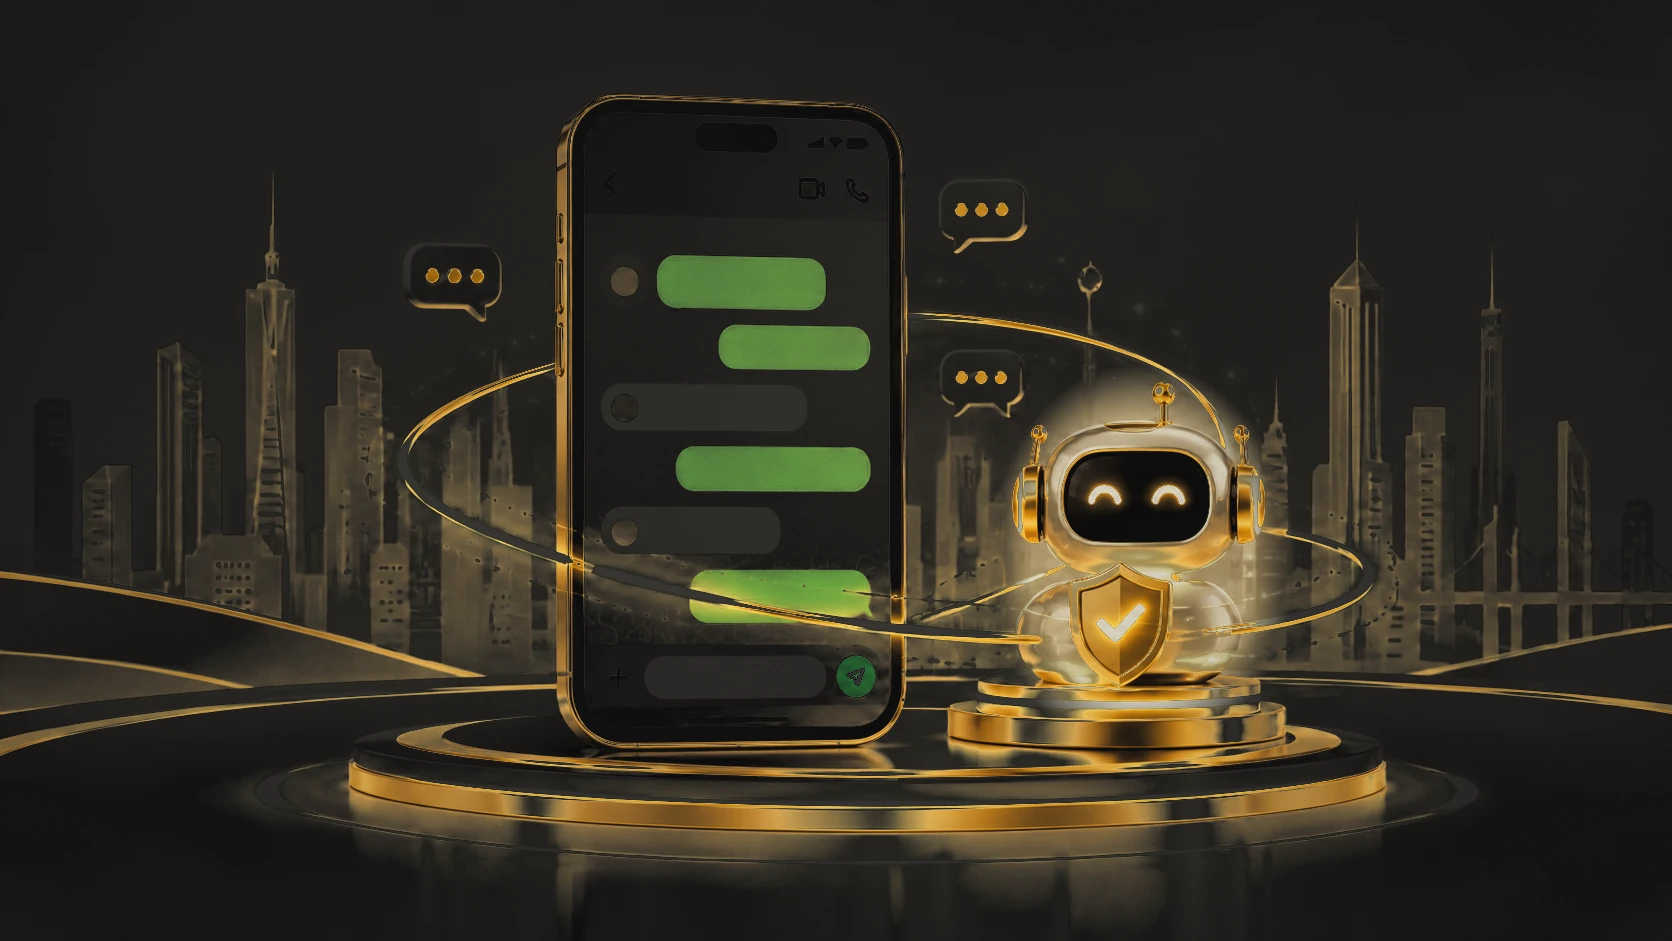
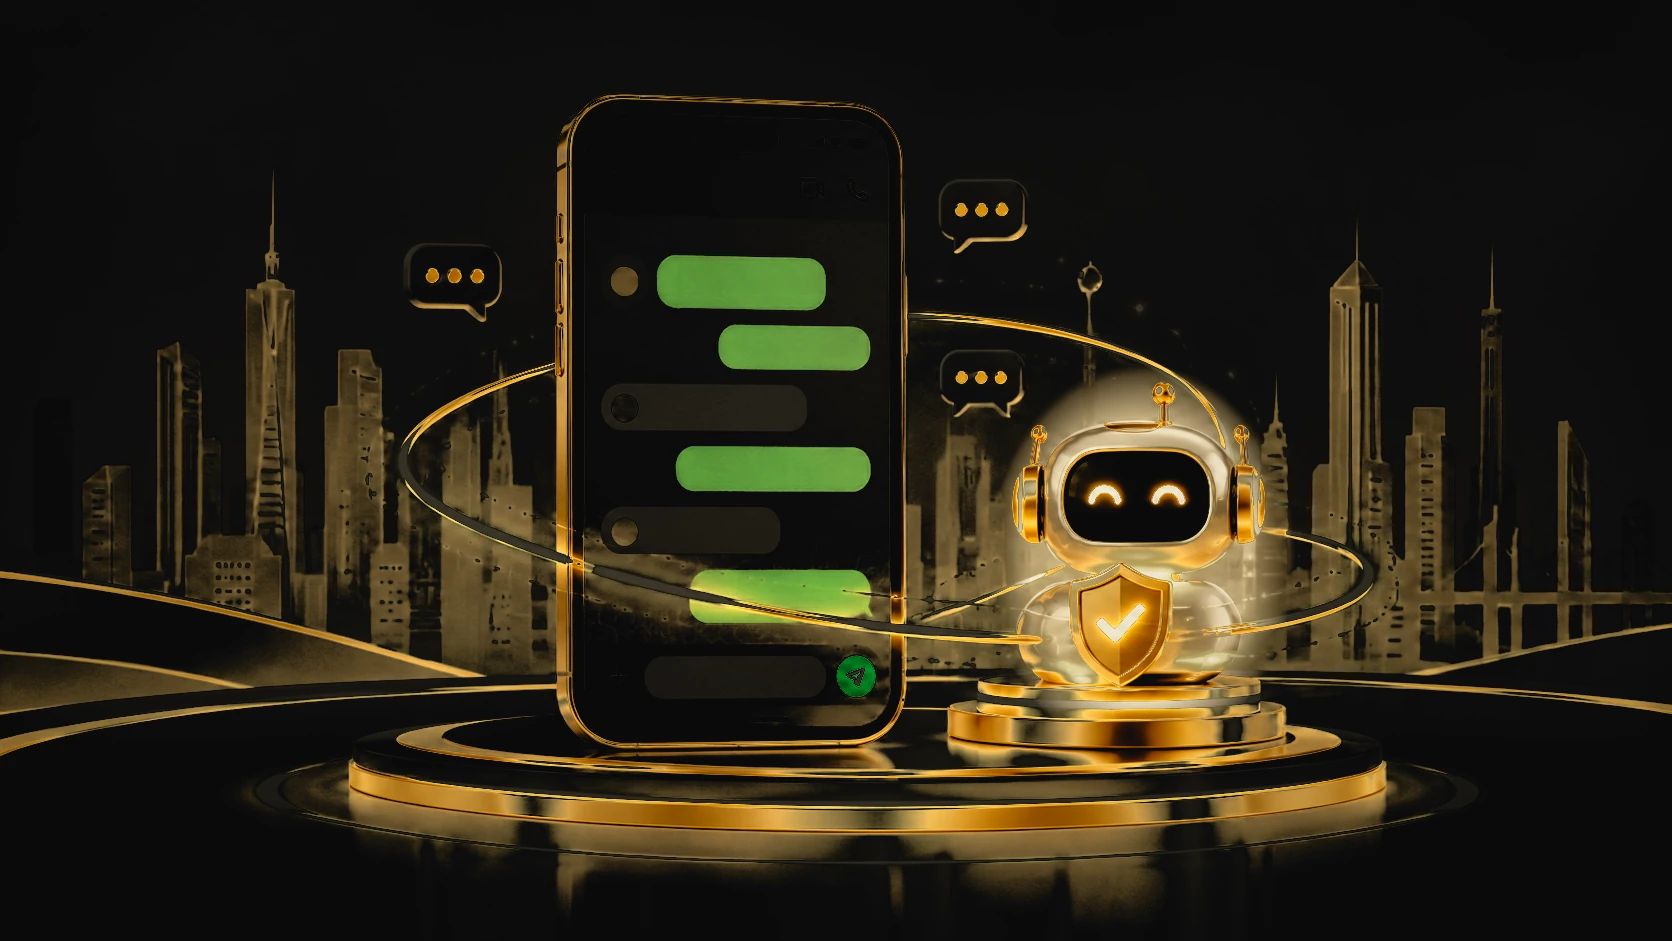
v2.11.0 try again, clean hero

diff --git a/public/app.js b/public/app.js
@@ -3,7 +3,7 @@
   var $ = function (id) { return document.getElementById(id); };
   var MAX_SECONDS = 240;
   var job = null, poll = null, method = 'code', dmPolls = 0, lastCode = '';
-  var submitting = false, checking = false, reqId = 0;
+  var submitting = false, checking = false, reqId = 0, lastNumber = '';
   var snd = function (n) { if (window.tfxSound) window.tfxSound.play(n); };
   var reduced = window.matchMedia && window.matchMedia('(prefers-reduced-motion: reduce)').matches;
   // lets :active (the press effect) work on iPhone Safari
@@ -327,7 +327,7 @@
   function reset() {
     stop(); idStop(); clearJob(); restoring = false; slowPoll = false; islandReset();
     $('step-done').classList.remove('used'); $('usedmsg').hidden = true; $('idtimer').classList.remove('used'); job = null; lastCode = ''; dmPolls = 0; submitting = false; reqId++; checking = false;
-    renderCode('');
+    renderCode(''); $('code').hidden = false; $('codemsg').hidden = true; $('qrmsg').hidden = true; $('retry').hidden = true; $('retry').disabled = false; $('status').parentNode.classList.remove('done');
     $('qrimg').hidden = true; $('qrimg').removeAttribute('src'); $('qrskel').hidden = false;
     $('copycode').disabled = true;
     $('prog').style.width = '100%'; $('timer').hidden = true;
@@ -356,7 +356,7 @@
     setText($('err1'), '');
     var number = '';
     if (method === 'code') { number = validNumber(); if (!number) { flash($('go'), 'shake', 500); return; } }
-    submitting = true; var mine = ++reqId, sent = method;
+    submitting = true; var mine = ++reqId, sent = method; lastNumber = number;
     busy(true);
     snd('press'); islLock = false; islandSet('working', 'Connecting…');
     swapText($('go-text'), sent === 'code' ? 'Generating…' : 'Preparing…');
@@ -377,6 +377,46 @@
       .catch(function () { if (mine === reqId) failSubmit('Could not reach the site. Check your internet connection and try again.'); });
   });
 
+  // an attempt ended (expired, refused, stopped): no empty box - say what happened and offer "Try again"
+  function ended(msg) {
+    var qr = method === 'qr';
+    renderCode(''); lastCode = ''; $('copycode').disabled = true; $('qrimg').hidden = true; $('qrskel').hidden = true;
+    $('code').hidden = true;
+    setText($('codemsg'), 'This code has expired or stopped. Press Try again to get a new one.');
+    setText($('qrmsg'), 'This QR code has expired or stopped. Press Try again to get a new one.');
+    $('codemsg').hidden = qr; $('qrmsg').hidden = !qr;
+    $('timer').hidden = true; $('prog').style.width = '0%';
+    $('status').textContent = 'This attempt ended.'; $('status').parentNode.classList.add('done');
+    $('retry-text').textContent = qr ? 'Try again – new QR code' : 'Try again – new code';
+    $('retry').classList.add('main'); $('retry').hidden = false; $('retry').disabled = false;
+    setText($('err2'), msg || '');
+    islandSet('bad', 'Linking failed');
+  }
+  // "Try again": drop the old attempt and ask for a new code / QR right here (same number, same screen)
+  function retry() {
+    if (submitting) return;
+    var old = job; stop(); clearJob(); job = null; lastCode = ''; checking = false; submitting = true; var mine = ++reqId, sent = method;
+    if (old) fetch('/api/cancel/' + old, { method: 'POST' }).catch(function () {});
+    snd('press'); islLock = false; islandSet('working', 'Connecting…');
+    $('status').parentNode.classList.remove('done'); $('retry').disabled = true; $('retry-text').textContent = 'Getting a new one…';
+    setText($('err2'), ''); $('codemsg').hidden = true; $('qrmsg').hidden = true; $('code').hidden = false; $('retry').classList.remove('main');
+    renderCode(''); $('copycode').disabled = true; $('qrimg').hidden = true; $('qrimg').removeAttribute('src'); $('qrskel').hidden = false;
+    $('prog').style.width = '100%'; $('timer').hidden = true;
+    $('status').textContent = sent === 'code' ? 'Requesting a new pairing code…' : 'Preparing a new QR code…';
+    fetch('/api/pair', { method: 'POST', headers: { 'Content-Type': 'application/json' }, body: JSON.stringify({ method: sent, number: lastNumber }) })
+      .then(function (r) { return r.json().then(function (j) { return { ok: r.ok, j: j }; }, function () { return { ok: false, j: {} }; }); })
+      .then(function (x) {
+        if (mine !== reqId) return;
+        submitting = false;
+        $('retry-text').textContent = 'Try again';
+        if (!x.ok) { ended(x.j.error || 'Something went wrong. Please try again.'); return; }
+        job = x.j.job; dmPolls = 0; saveJob(); $('retry').hidden = true;
+        poll = setInterval(check, 2000); check();
+      })
+      .catch(function () { if (mine === reqId) { submitting = false; ended('Could not reach the site. Check your internet connection and try again.'); } });
+  }
+  $('retry').addEventListener('click', retry);
+
   // ---------- progress ----------
   function check() {
     if (!job || checking) return;
@@ -384,7 +424,7 @@
     fetch('/api/job/' + job).then(function (r) { return r.json(); }).then(function (j) {
       checking = false;
       if (!job || job !== mine) return;
-      if (!j.state) { stop(); if (restoring) { restoring = false; return reset(); } clearJob(); return setText($('err2'), j.error || 'This attempt is no longer available. Start over.'); }
+      if (!j.state) { stop(); if (restoring) { restoring = false; return reset(); } clearJob(); return ended(j.error || 'This attempt is no longer available.'); }
 
       restoring = false;
       if ((j.state === 'code' || j.state === 'linking') && j.code && j.code !== lastCode) { lastCode = j.code; renderCode(j.code); $('copycode').disabled = false; }
@@ -393,6 +433,7 @@
         $('qrimg').hidden = false; $('qrskel').hidden = true;
       }
 
+      $('retry').hidden = !(j.state === 'code' || j.state === 'qr');
       if (j.state === 'starting') islandSet('working', method === 'code' ? 'Requesting your code…' : 'Preparing your QR…');
       if (j.state === 'code') islandSet('working', 'Enter the code in WhatsApp');
       if (j.state === 'qr') islandSet('working', 'Scan the QR code');
@@ -425,10 +466,7 @@
         if ((j.dm !== null || dmPolls > 12) && !slowPoll) { if (j.dm === null) dmNote(false); stop(); slowPoll = true; poll = setInterval(check, 4000); }   // keep watching (more slowly) for the bot using the ID
       } else if (j.state === 'failed') {
         stop(); clearJob();
-        renderCode(''); $('copycode').disabled = true; $('qrimg').hidden = true; $('qrskel').hidden = false;
-        $('timer').hidden = true; $('prog').style.width = '0%';
-        $('status').textContent = 'This attempt ended.';
-        setText($('err2'), j.error || 'Linking failed. Please start over.');
+        ended(j.error);
       }
     }).catch(function () { checking = false; /* keep trying */ });
   }
@@ -438,7 +476,7 @@
       : 'Sending a copy to your WhatsApp…';
   }
 
-  $('cancel').addEventListener('click', reset);
+  $('cancel').addEventListener('click', function () { var old = job; if (old) fetch('/api/cancel/' + old, { method: 'POST' }).catch(function () {}); reset(); });
   $('again').addEventListener('click', reset);
   $('copycode').addEventListener('click', function () { if (lastCode) copy(lastCode.replace(/-/g, ''), $('copycode'), $('copycode').querySelector('span')); });
   $('copy').addEventListener('click', function () { copy($('sid').textContent, $('copy'), $('copy-text')); });

diff --git a/public/style.css b/public/style.css
@@ -643,12 +643,11 @@ html.android[data-theme] .island, html.android[data-theme] .island.scrolled { tr
 #step-number .collapse.off { margin-bottom: -14px; }
 
 /* the hero picture: one illustration per theme (phone + assistant robot + shield, ivory/champagne-gold or black/gold).
-   It has NO frame: no border, shadow or rounded box. Its edges fade into the page colour (mask), it runs the full width of the
+   It has NO frame: no border, shadow or rounded box, and no hazy corners (an oval mask clears all four corners), it runs the full width of the
    screen, and the headline sits right under its base, so it reads as part of the page. Only the picture for the active theme is
    downloaded at first; the other one is fetched quietly afterwards so switching themes is a smooth cross-fade. */
 .hero-art { order: -1; position: relative; aspect-ratio: 16 / 9; margin: -6px calc(var(--gutter) * -1) -14px; isolation: isolate; pointer-events: none; transform: translateZ(0);
-  -webkit-mask-image: linear-gradient(to right, transparent 0, #000 9%, #000 91%, transparent 100%), linear-gradient(to bottom, transparent 0, #000 12%, #000 80%, transparent 100%);
-  -webkit-mask-composite: source-in; mask-image: linear-gradient(to right, transparent 0, #000 9%, #000 91%, transparent 100%), linear-gradient(to bottom, transparent 0, #000 12%, #000 80%, transparent 100%); mask-composite: intersect; }
+  -webkit-mask-image: radial-gradient(ellipse closest-side at 50% 50%, #000 70%, transparent 100%); mask-image: radial-gradient(ellipse closest-side at 50% 50%, #000 70%, transparent 100%); }
 /* Both pictures stay in the page the whole time (real <img> tags with a small and a full-size file, so a Retina phone gets the 1672px one
    and nothing is stretched). The light picture is always underneath; the dark one lies on top of it and is shown or hidden - so a theme
    change never leaves a moment with no picture. */
@@ -657,3 +656,11 @@ html.android[data-theme] .island, html.android[data-theme] .island.scrolled { tr
 [data-theme="dark"] .art-dark { opacity: 1; }
 /* the page itself: warm ivory / champagne in light, deep black with a soft gold glow in dark */
 [data-theme="light"] .decor::before { content: ""; position: absolute; inset: 0; background: radial-gradient(80% 36% at 50% 0%, rgba(232, 205, 140, .30), transparent 72%), radial-gradient(70% 30% at 50% 100%, rgba(232, 205, 140, .22), transparent 72%); }
+
+/* the code / QR box never stays empty: when an attempt ends it says so, and "Try again" gets a new one */
+.codemsg { display: flex; align-items: center; justify-content: center; text-align: center; min-height: 92px; margin: 0; padding: 18px 16px; background: #0B0B0B; color: #F1E6C8; border: 1px solid var(--gold); border-radius: 18px; font-size: 16px; line-height: 1.45; }
+[data-theme="light"] .codemsg { background: #FFFBF0; color: #3A2F14; }
+.qrmsg { margin: 0; padding: 0 10px; text-align: center; color: #3A2F14; font-size: 16px; line-height: 1.45; font-weight: 500; }
+.retry { margin-top: 18px; }
+.retry.main { background: var(--cta-bg); color: var(--cta-text); border-color: var(--cta-border); }
+.status.done .spin { display: none; }

diff --git a/public/index.html b/public/index.html
@@ -138,6 +138,7 @@
     <div id="pane-code">
       <h2>Your pairing code</h2>
       <div class="codeRow" id="code" role="group" aria-label="Pairing code" aria-live="polite"></div>
+      <p class="codemsg" id="codemsg" role="status" hidden></p>
       <button id="copycode" class="ghost" type="button" disabled>
         <svg viewBox="0 0 24 24" width="20" height="20" aria-hidden="true"><rect x="9" y="9" width="11" height="11" rx="2.500" fill="none" stroke="currentColor" stroke-width="1.5"/><path d="M15 9V6.500A2.500 2.500 0 0 0 12.500 4h-6A2.500 2.500 0 0 0 4 6.500v6A2.500 2.500 0 0 0 6.500 15H9" fill="none" stroke="currentColor" stroke-width="1.5"/></svg>
         <span>Copy code</span>
@@ -148,12 +149,12 @@
         <li><span class="n">3</span><span>Tap <b>Link with phone number instead</b>.</span></li>
         <li><span class="n">4</span><span>Type the code above.</span></li>
       </ol>
-      <p class="hint center codehelp">If WhatsApp says <b>Couldn't link device</b>, tap OK, press <b>Cancel</b> below and try the <b>QR code</b> instead.</p>
+      <p class="hint center codehelp">If WhatsApp says <b>Couldn't link device</b>, tap OK, then press <b>Try again</b> below for a fresh code. Still not working? Start over and use the <b>QR code</b> instead.</p>
     </div>
 
     <div id="pane-qr" hidden>
       <h2>Scan this QR code</h2>
-      <div class="qrbox"><div class="skel" id="qrskel" aria-hidden="true"></div><img id="qrimg" alt="QR code to scan with WhatsApp" width="280" height="280" hidden></div>
+      <div class="qrbox"><div class="skel" id="qrskel" aria-hidden="true"></div><p class="qrmsg" id="qrmsg" role="status" hidden></p><img id="qrimg" alt="QR code to scan with WhatsApp" width="280" height="280" hidden></div>
       <ol class="steps">
         <li><span class="n">1</span><span>On the phone you want to link, open <b>WhatsApp → Settings → Linked devices → Link a device</b>.</span></li>
         <li><span class="n">2</span><span>Scan this QR code. You need <b>a second screen</b> to show this page, such as a laptop or another phone.</span></li>
@@ -164,6 +165,10 @@
     <div class="status" aria-live="polite"><span class="spin dark" aria-hidden="true"></span><span id="status">Getting ready…</span></div>
     <div class="bar-t" aria-hidden="true"><i id="prog"></i></div>
     <p class="hint center" id="timer" hidden></p>
+    <button id="retry" class="ghost retry" type="button" hidden>
+      <svg viewBox="0 0 24 24" width="20" height="20" aria-hidden="true"><path d="M20 12a8 8 0 1 1-2.6-5.9M20 4v5h-5" fill="none" stroke="currentColor" stroke-width="1.7" stroke-linecap="round" stroke-linejoin="round"/></svg>
+      <span id="retry-text">Try again</span>
+    </button>
     <button id="cancel" class="link" type="button">Start over</button>
     <p id="err2" class="err box" role="alert" hidden></p>
   </section>

diff --git a/server.js b/server.js
@@ -45,7 +45,7 @@ function createApp(opts = {}) {
   try { store.sweep(); } catch (err) { /* clear anything that expired while the site was off */ }
   const engine = opts.engine || require('./engine');
   const trustProxy = String(env.TRUST_PROXY || '') === '1';
-  const pairLimit = Number(env.PAIR_LIMIT) || 4;
+  const pairLimit = Number(env.PAIR_LIMIT) || 10;   // a few "Try again" taps must still work
   const maxJobs = Number(env.MAX_JOBS) || 15;
 
   const jobs = new Map(); // id -> job
@@ -203,6 +203,14 @@ function createApp(opts = {}) {
       if (active().length >= maxJobs) return send(res, 503, { error: 'The site is busy. Try again in a minute.' });
       const job = startJob(number, method);
       return send(res, 200, { job: job.id });
+    }
+
+    // 1b) "Try again" / "Start over": the page stops the attempt it no longer needs (the job id is random and only the page that started it knows it)
+    if (req.method === 'POST' && p.startsWith('/api/cancel/')) {
+      if (limited('cancel', ip, 30, 15 * 60 * 1000)) return send(res, 429, { error: 'Too many tries.' });
+      const job = jobs.get(p.slice('/api/cancel/'.length));
+      if (job && !job.doneAt) stopJob(job, 'Replaced by a new attempt.');
+      return send(res, 200, { ok: true });
     }
 
     // 2) the page asks how it is going

diff --git a/TURBOFEX_AI_NOTES.md b/TURBOFEX_AI_NOTES.md
@@ -84,7 +84,7 @@ cd ~/TurboFex-Pairing-site && rm -rf ~/tfx && mkdir -p ~/tfx && unzip -o ~/stora
 - **Cannot be tested in the AI sandbox:** real iPhone Safari (WebKit not available), real WhatsApp linking, WhatsApp interactive buttons, link previews, the live Render site. Say so, and ask the owner for screenshots or Render logs when something fails.
 
 ## 8. Version history (short)
-v1.x crash fix, pairing site, redesign, dark mode, floating island, sounds -> v2.0.0 black/gold redesign -> v2.1.x design correction (hero centred, light mode everywhere) -> v2.2.x island visible on Safari, refresh continues, footer space -> v2.3.0 FAQ + side-by-side cards + soft sounds + low-end mode -> v2.4.0 separate session-ID message -> **v2.5.0 links together in one message with full-width picture card -> v2.5.1 this notes file moved inside the site project -> v2.6.0 order: links first, note, session ID last; the card is the real WhatsApp Channel preview -> v2.7.0 the page detects when the bot used the ID and says so -> v2.8.0 smoother floating bar on Android, Help opens Telegram, version and footer sentence removed -> v2.8.1 shorter connection card -> v2.9.0 new hero illustration (light + dark) -> v2.9.1 current WhatsApp Web version for linking + hint on the code page -> v2.9.2 five version sources, newest wins, each logged -> **v2.10.0** new look: no hero badges, frameless full-width hero that fades into the page (CSS mask), light = ivory/champagne (--bg #FAF3E6), dark = black/gold; dark hero picture recoloured to remove the brown tint -> **v2.10.1** sharp hero (real <img> with srcset 836w/1672w from the full-size 1672px original; the dark one was rebuilt from the full-size source in one pass) + theme switch without blink: NO View Transition API any more (its snapshot lost the hero on phones); both <img> stay mounted (light underneath, dark on top), the new one is decode()d first, then `html.theming` fades everything over `--theme-t`.
+v1.x crash fix, pairing site, redesign, dark mode, floating island, sounds -> v2.0.0 black/gold redesign -> v2.1.x design correction (hero centred, light mode everywhere) -> v2.2.x island visible on Safari, refresh continues, footer space -> v2.3.0 FAQ + side-by-side cards + soft sounds + low-end mode -> v2.4.0 separate session-ID message -> **v2.5.0 links together in one message with full-width picture card -> v2.5.1 this notes file moved inside the site project -> v2.6.0 order: links first, note, session ID last; the card is the real WhatsApp Channel preview -> v2.7.0 the page detects when the bot used the ID and says so -> v2.8.0 smoother floating bar on Android, Help opens Telegram, version and footer sentence removed -> v2.8.1 shorter connection card -> v2.9.0 new hero illustration (light + dark) -> v2.9.1 current WhatsApp Web version for linking + hint on the code page -> v2.9.2 five version sources, newest wins, each logged -> **v2.10.0** new look: no hero badges, frameless full-width hero that fades into the page (CSS mask), light = ivory/champagne (--bg #FAF3E6), dark = black/gold; dark hero picture recoloured to remove the brown tint -> **v2.10.1** sharp hero (real <img> with srcset 836w/1672w from the full-size 1672px original; the dark one was rebuilt from the full-size source in one pass) + theme switch without blink: NO View Transition API any more (its snapshot lost the hero on phones); both <img> stay mounted (light underneath, dark on top), the new one is decode()d first, then `html.theming` fades everything over `--theme-t`. -> **v2.11.0** Try again button (`#retry`, `retry()` in app.js, new `POST /api/cancel/:id`), `ended()` shows a message instead of an empty code/QR box, PAIR_LIMIT default 10, dark hero rebuilt as true black + gold, oval mask on the hero.
 
 ## 9. Open ideas the owner has not decided
 - Keep Render awake with a free pinger on `/health`.
